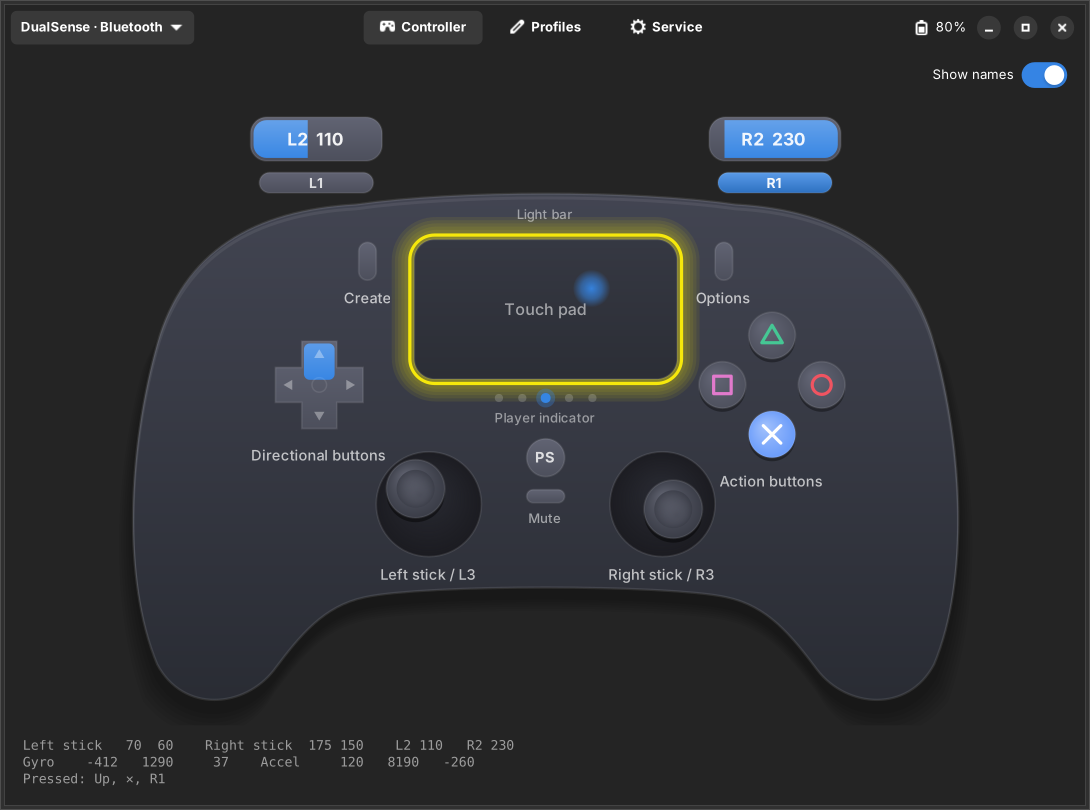
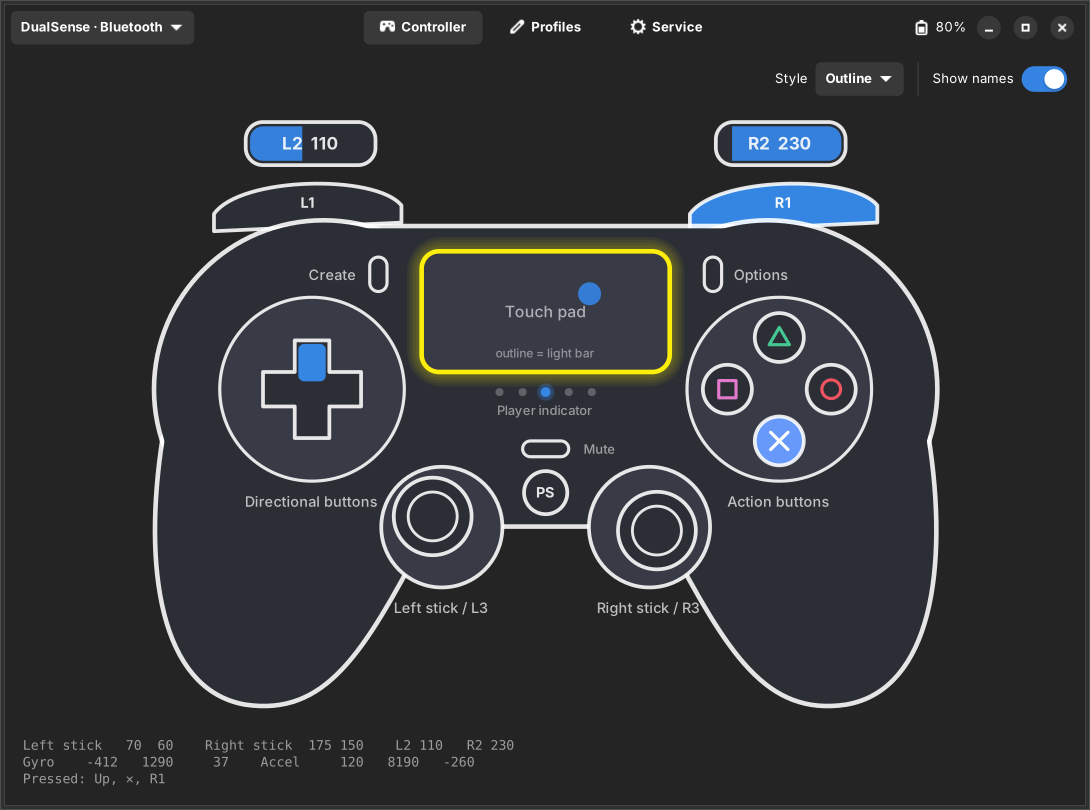
docs: screenshots with the outline controller style
Claude-Session: https://claude.ai/code/session_01VhzyKXZU1ZSBg4azUcnmCZ

diff --git a/CHANGELOG.md b/CHANGELOG.md
@@ -17,9 +17,10 @@ follows [Semantic Versioning](https://semver.org/).
 - Branch and tag protection: CODEOWNERS, repository rulesets for `main`, `develop` and `v*` tags, and `scripts/apply-repo-protection.sh`.
 
 ### Changed
-- Redesigned controller view: shaded single-tone shell with depth, one-piece D-pad, recessed
-  stick wells, and a glow around the touch pad in the current light bar colour; adapts to the
-  light and dark themes.
+- Redesigned controller view with two styles, switchable on the Controller page and remembered:
+  **Outline** (default: flat, bold lines, round pads around the D-pad and action buttons, ringed
+  sticks) and **Shaded** (single-tone shell with depth and recessed sticks). In both, the touch pad
+  is outlined in the current light bar colour; both adapt to the light and dark themes.
 - Low-battery notification now comes below 25% (was at 20%); thresholds are configurable.
 
 ## [0.1.1] - 2026-10-15
